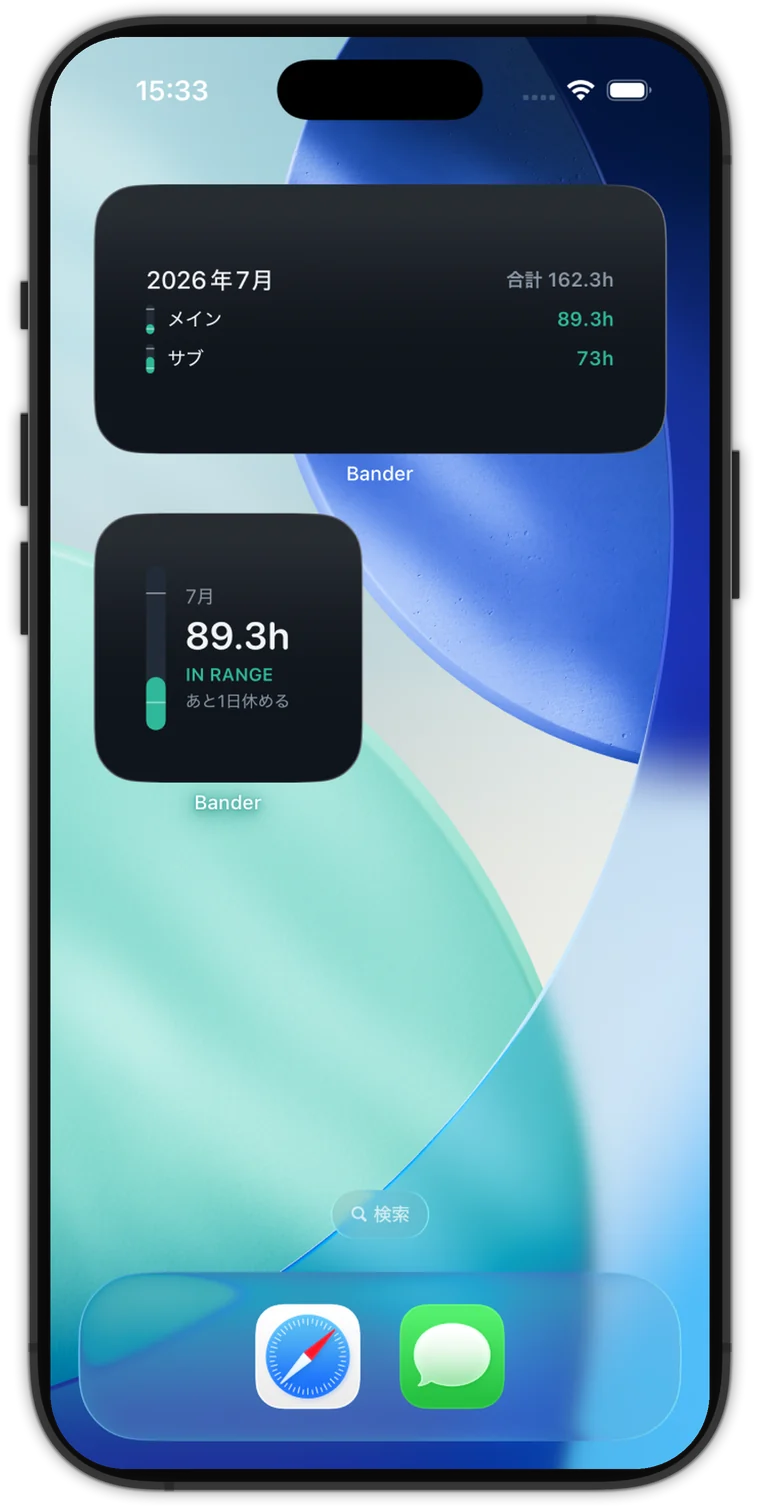
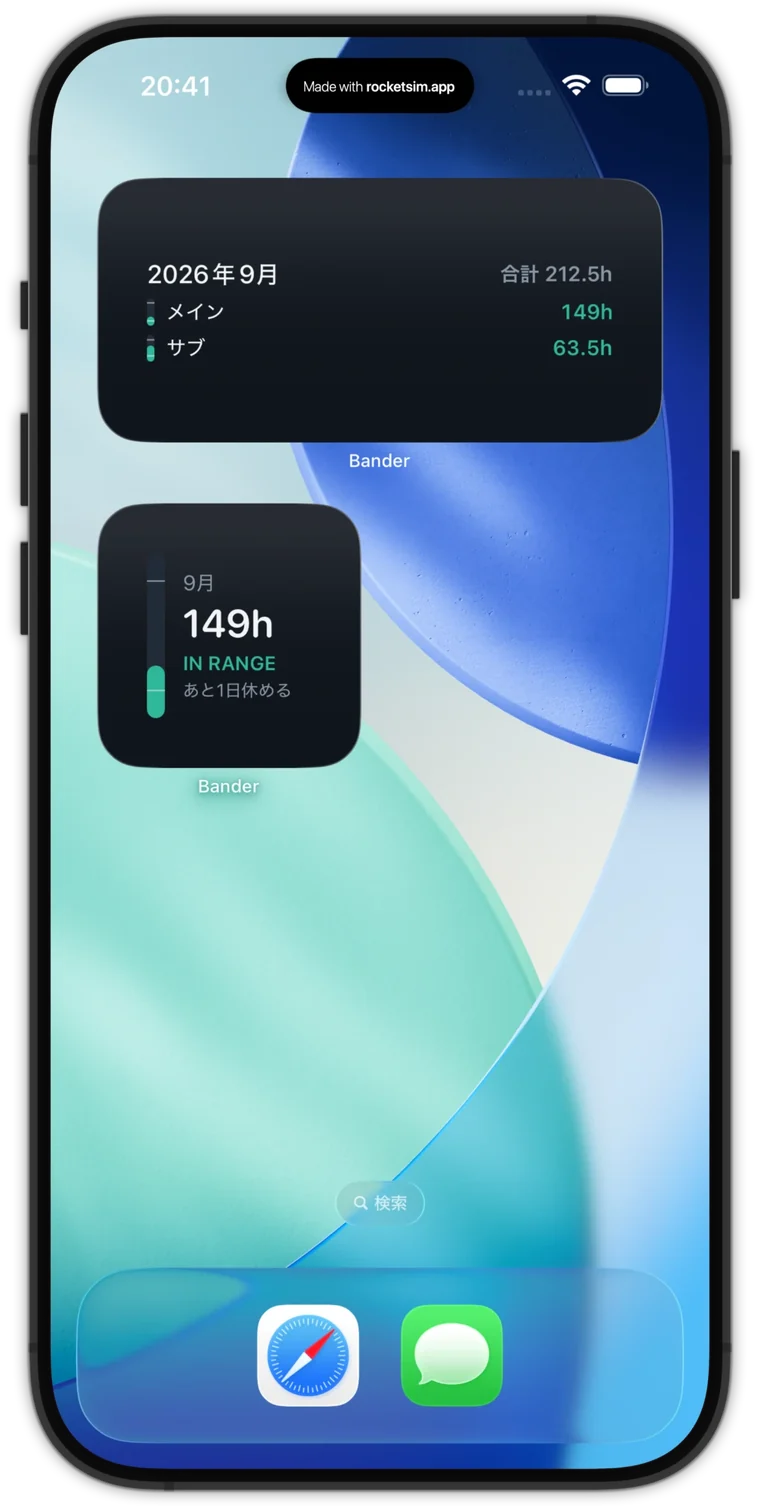
fix: ウィジェットの画像を当月のデモデータで撮り直したものに差し替える
シミュレータのデータを 2026年9月（メイン149h・サブ63.5h・合計212.5h）に
そろえて撮り直した。ほかの3枚と月がそろう。

diff --git a/hackathon/index.html b/hackathon/index.html
@@ -557,7 +557,7 @@
           <figcaption><b>下限を割る前に気づける</b><span>1日あたり何時間足せば下限に戻るかを出し、来月のリスクは通知で知らせます。</span></figcaption>
         </figure>
         <figure>
-          <div class="shot"><img src="img/widget.webp" alt="iPhone のホーム画面に置いた Bander のウィジェット。中サイズは2つの現場と合計、小サイズは今月の見込みとIN RANGE、あと1日休めるを表示" width="760" height="1506" loading="lazy"></div>
+          <div class="shot"><img src="img/widget.webp" alt="iPhone のホーム画面に置いた Bander のウィジェット。中サイズは2026年9月のメイン149h・サブ63.5h・合計212.5h、小サイズは9月149h・IN RANGE・あと1日休めるを表示" width="760" height="1506" loading="lazy"></div>
           <figcaption><b>開かなくても、ホーム画面で</b><span>今月の見込みと状態、あと何日休めるかをウィジェットに出します。中サイズは掛け持ちの現場と合計も。無料で使えます。</span></figcaption>
         </figure>
       </div>
